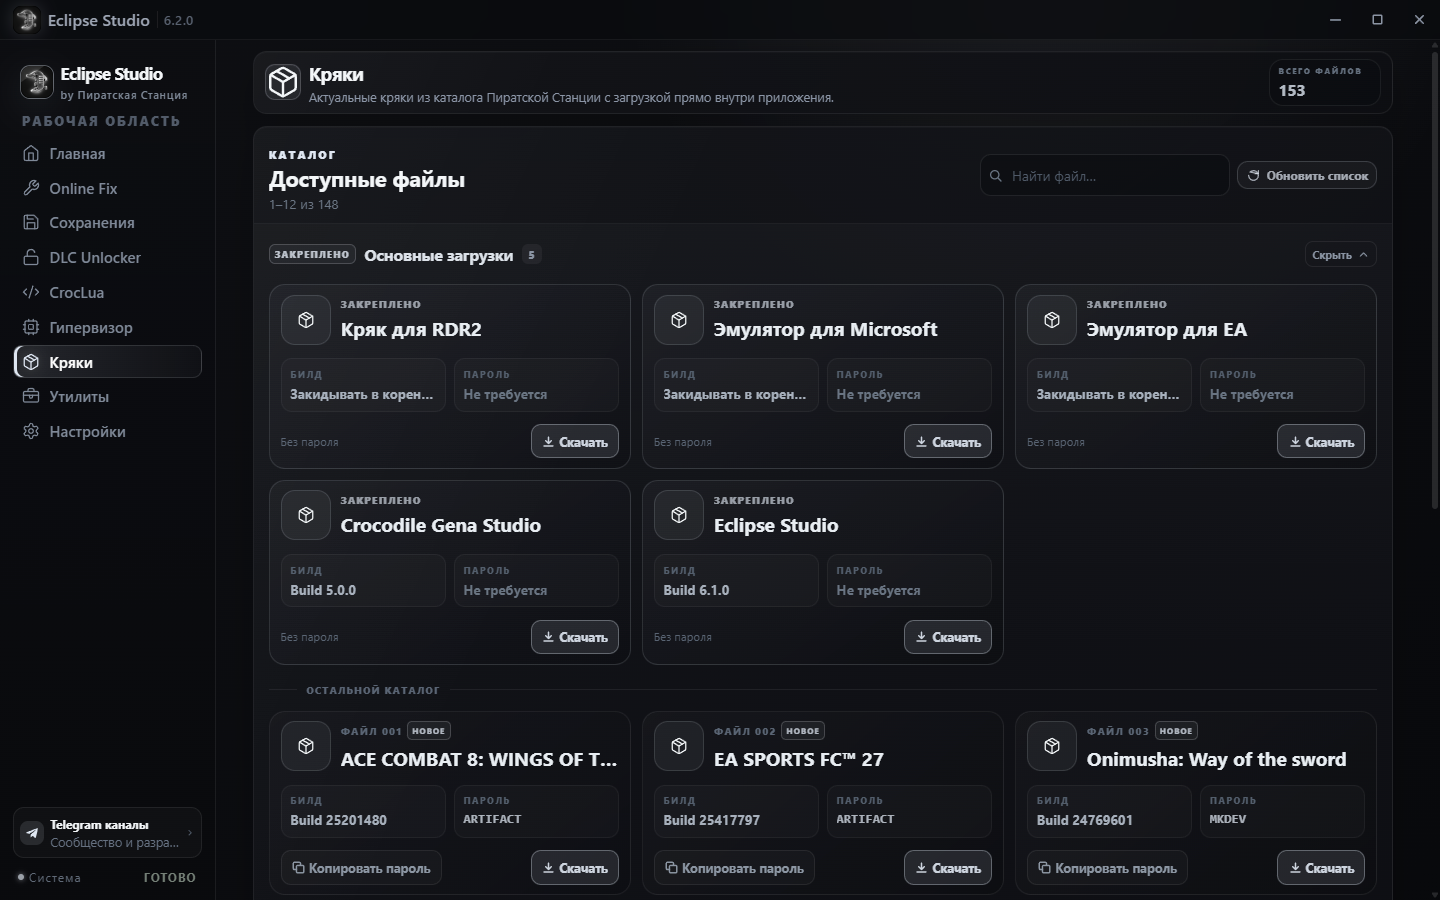
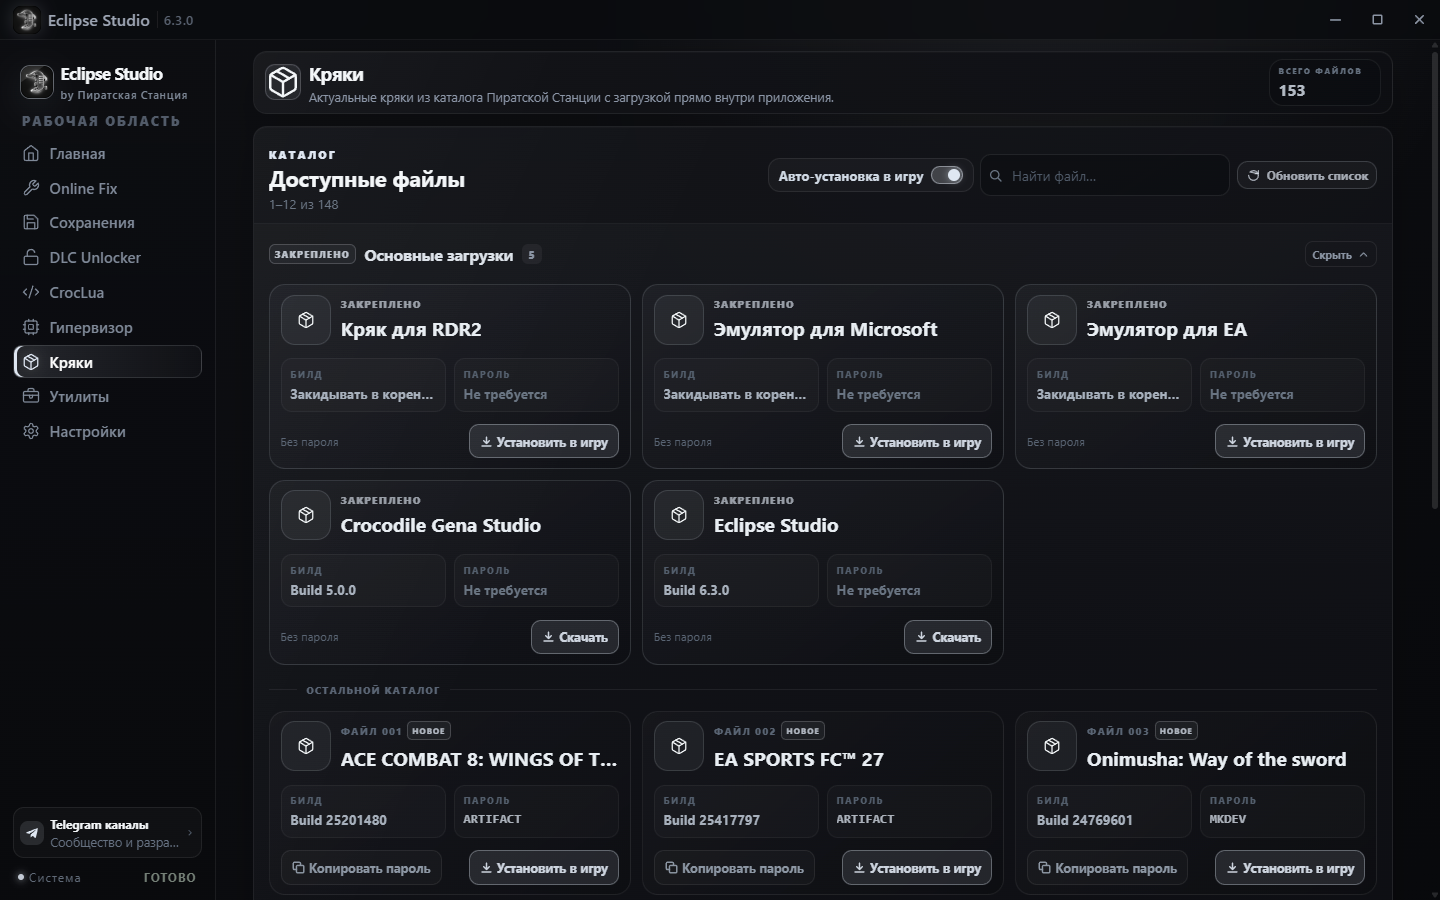
docs: update comparison section with detailed features and bump site to v6.3.0

diff --git a/docs/app.js b/docs/app.js
@@ -396,14 +396,22 @@
       'compare.lead': 'Потяните разделитель, чтобы сравнить оригинальный Crocodile Gena Studio и Eclipse Studio.',
       'compare.orig': 'Оригинал',
       'compare.new': 'Eclipse Studio',
-      'compare.diffOrig1': 'Фиксированные градиенты',
-      'compare.diffOrig2': 'Статичные системные иконки Windows',
-      'compare.diffOrig3': 'Смешанные внешние вызовы путей',
-      'compare.diffOrig4': 'Отсутвие загрузки и части кастомизации',
-      'compare.diffNew1': '9 тем, включая белую',
-      'compare.diffNew2': 'Векторные иконки Lucide',
-      'compare.diffNew3': 'Заставка-мозаика',
-      'compare.diffNew4': 'Нативный проводник Tauri',
+      'compare.diffOrig1': '<strong>Ручная распаковка:</strong> скачивание архива, копирование паролей и ручной перенос файлов в игру',
+      'compare.diffOrig2': '<strong>Внешние зависимости:</strong> батники и бинарники (.bat, .exe) лежали отдельно рядом с программой',
+      'compare.diffOrig3': '<strong>Устаревший WinForms диалог:</strong> мелкое дерево папок в стиле Windows XP без быстрого доступа',
+      'compare.diffOrig4': '<strong>Синие ореолы во всех темах:</strong> фиксированные градиенты, искажающие выбранную цветовую гамму',
+      'compare.diffOrig5': '<strong>Эмодзи и растровые иконки:</strong> статичные системные пиктограммы Windows, размывающиеся на 4K',
+      'compare.diffOrig6': '<strong>Зависание при старте:</strong> пустое белое окно без индикации во время проверки системы',
+      'compare.diffOrig7': '<strong>Навязчивые обновления:</strong> модальные окна без возможности отложить проверку или апдейт',
+      'compare.diffOrig8': '<strong>Фиксированные пути:</strong> жестко заданная папка сохранения без возможности выбора и быстрого сброса',
+      'compare.diffNew1': '<strong>Автоустановка в 1 клик:</strong> умный разбор структуры архивов, бэкап в .backup_orig и автоудаление',
+      'compare.diffNew2': '<strong>Полный Standalone Portable:</strong> всё в одном бинарнике, сканер служб античитов и аудит VBS',
+      'compare.diffNew3': '<strong>Нативный проводник:</strong> современный диалог выбора папок, быстрый доступ и подсветка файлов',
+      'compare.diffNew4': '<strong>9 тем + Светлая палитра:</strong> нейтрализованные ореолы, чистый режим Light и зум текста до 140%',
+      'compare.diffNew5': '<strong>Векторный SVG-сет Lucide:</strong> безупречная чёткость на любых экранах и плавные микроанимации 60 FPS',
+      'compare.diffNew6': '<strong>Аппаратная заставка:</strong> Canvas-анимация с логотипом, пошаговый статус загрузки и пропуск по клику',
+      'compare.diffNew7': '<strong>Гибкий апдейтер:</strong> обновление в 1 клик или откладывание на 10 запусков, комфортный масштаб 120%',
+      'compare.diffNew8': '<strong>Гибкая настройка путей:</strong> выбор любой папки загрузок со сбросом по умолчанию в 1 клик',
       'dl.kicker': 'Загрузка',
       'dl.title1': 'Один файл.',
       'dl.title2': 'Portable.',
@@ -492,14 +500,22 @@
       'compare.lead': 'Drag the slider to compare original Crocodile Gena Studio and Eclipse Studio.',
       'compare.orig': 'Original',
       'compare.new': 'Eclipse Studio',
-      'compare.diffOrig1': 'Fixed static gradients',
-      'compare.diffOrig2': 'Legacy Windows system icons',
-      'compare.diffOrig3': 'Mixed external path dependencies',
-      'compare.diffOrig4': 'No download vault & limited styling',
-      'compare.diffNew1': '9 themes, including clean light mode',
-      'compare.diffNew2': 'Crisp Lucide vector icons',
-      'compare.diffNew3': 'Mosaic intro animation',
-      'compare.diffNew4': 'Native Tauri file dialogs',
+      'compare.diffOrig1': '<strong>Manual extraction:</strong> manual archive download, copying passwords, and manual file copy to game folders',
+      'compare.diffOrig2': '<strong>External dependencies:</strong> loose batch scripts and binaries (.bat, .exe) alongside the app',
+      'compare.diffOrig3': '<strong>Legacy WinForms dialog:</strong> tiny Windows XP-style folder tree without quick access or path input',
+      'compare.diffOrig4': '<strong>Blue halos across themes:</strong> unremovable blue gradients distorting custom color palettes',
+      'compare.diffOrig5': '<strong>Text emojis & legacy icons:</strong> low-res Windows system icons blurring on HiDPI/4K displays',
+      'compare.diffOrig6': '<strong>Freeze on startup:</strong> blank unresponsive window without progress feedback during system checks',
+      'compare.diffOrig7': '<strong>Intrusive updates:</strong> modal prompts with no snooze option, resetting zoom scaling',
+      'compare.diffOrig8': '<strong>Fixed file paths:</strong> hardcoded download folder without custom folder selection or quick reset',
+      'compare.diffNew1': '<strong>1-Click Auto-Install:</strong> smart archive hierarchy parsing, safety backup in .backup_orig, and auto-cleanup',
+      'compare.diffNew2': '<strong>True Standalone Portable:</strong> 100% self-contained binary, built-in anticheat scanner, and VBS audit',
+      'compare.diffNew3': '<strong>Native Explorer dialogs:</strong> modern folder browser with quick access, history, and explorer reveal',
+      'compare.diffNew4': '<strong>9 themes + clean Light mode:</strong> neutralized color bleeding, true white theme, and font scaling up to 140%',
+      'compare.diffNew5': '<strong>Vector Lucide SVG icons:</strong> razor-sharp rendering on any screen with hardware 60 FPS micro-animations',
+      'compare.diffNew6': '<strong>Hardware Canvas splash:</strong> animated logo intro, subsystem initialization log, and instant click-to-skip',
+      'compare.diffNew7': '<strong>Flexible updater:</strong> 1-click update or 10-launch snooze, comfortable persistent 120% scale',
+      'compare.diffNew8': '<strong>Flexible path management:</strong> select any download directory with 1-click reset to defaults',
       'dl.kicker': 'Download',
       'dl.title1': 'Single file.',
       'dl.title2': 'Portable.',
@@ -820,9 +836,10 @@
       .catch(() => {
         syncState.fail++;
         const fallback = [
-          { tag: 'v6.2.0', rawDate: '2026-10-12T12:00:00Z', rawBytes: 44774195, url: 'https://github.com/Sparki1337/eclipse-studio/releases/latest', fallbackSize: '42.7 МБ' },
-          { tag: 'v6.1.0', rawDate: '2026-10-12T10:00:00Z', rawBytes: 44774195, url: 'https://github.com/Sparki1337/eclipse-studio/releases/tag/6.1.0', fallbackSize: '42.7 МБ' },
-          { tag: 'v6.0.0', rawDate: '2026-10-12T08:00:00Z', rawBytes: 44564480, url: 'https://github.com/Sparki1337/eclipse-studio/releases/tag/6.0.0', fallbackSize: '42.5 МБ' },
+          { tag: 'v6.3.0', rawDate: '2026-10-13T18:00:00Z', rawBytes: 44983910, url: 'https://github.com/Sparki1337/eclipse-studio/releases/latest', fallbackSize: '42.9 МБ' },
+          { tag: 'v6.2.0', rawDate: '2026-10-12T12:00:00Z', rawBytes: 44774195, url: 'https://github.com/Sparki1337/eclipse-studio/releases/tag/v6.2.0', fallbackSize: '42.7 МБ' },
+          { tag: 'v6.1.0', rawDate: '2026-10-12T10:00:00Z', rawBytes: 44774195, url: 'https://github.com/Sparki1337/eclipse-studio/releases/tag/v6.1.0', fallbackSize: '42.7 МБ' },
+          { tag: 'v6.0.0', rawDate: '2026-10-12T08:00:00Z', rawBytes: 44564480, url: 'https://github.com/Sparki1337/eclipse-studio/releases/tag/v6.0.0', fallbackSize: '42.5 МБ' },
         ];
         cachedEclipseReleases = fallback;
         renderReleasesUI('eclipse', fallback);
@@ -1051,7 +1068,7 @@
 
     fetch(GIST_URL, { cache: 'no-store' })
       .then((r) => { if (!r.ok) throw new Error('HTTP ' + r.status); return r.json(); })
-      .catch(() => fetch(`${FALLBACK_URL}?v=6.2.0`, { cache: 'no-store' }).then((r) => r.json()))
+      .catch(() => fetch(`${FALLBACK_URL}?v=6.3.0`, { cache: 'no-store' }).then((r) => r.json()))
       .then((data) => {
         const cracks = Array.isArray(data) ? data : (data?.cracks || []);
         allGames = cracks.filter((c) => c && c.name && c.url);

diff --git a/docs/index.html b/docs/index.html
@@ -13,7 +13,7 @@
   <link rel="preconnect" href="https://fonts.googleapis.com" />
   <link rel="preconnect" href="https://fonts.gstatic.com" crossorigin />
   <link href="https://fonts.googleapis.com/css2?family=Inter:wght@300;400;500;600;700&family=Inter+Tight:wght@400;500;600&family=JetBrains+Mono:wght@400;500&display=swap" rel="stylesheet" />
-  <link rel="stylesheet" href="./style.css?v=6.2.0" />
+  <link rel="stylesheet" href="./style.css?v=6.3.0" />
   <script>document.documentElement.classList.add('js');</script>
 </head>
 <body class="is-loading">
@@ -39,7 +39,7 @@
       <a href="#top" class="brand" aria-label="Eclipse Studio">
         <img src="./assets/app-icon.png" alt="" class="brand-icon" />
         <span class="brand-name">Eclipse Studio</span>
-        <span class="brand-ver" data-version>v6.2.0</span>
+        <span class="brand-ver" data-version>v6.3.0</span>
       </a>
       <nav class="nav" id="nav">
         <a href="#modules" data-i18n="nav.modules">Модули</a>
@@ -78,7 +78,7 @@
           <span class="dot"></span>
           <span data-i18n="hero.tag">Eclipse Studio</span>
           <span class="sep"></span>
-          <span class="mono" data-version>v6.2.0</span>
+          <span class="mono" data-version>v6.3.0</span>
         </div>
 
         <h1 class="hero-title" data-split>
@@ -93,7 +93,7 @@
         <div class="hero-actions reveal" style="--d:5">
           <a href="#download" class="btn btn-light btn-lg">
             <svg viewBox="0 0 24 24" width="18" height="18" fill="none" stroke="currentColor" stroke-width="2" stroke-linecap="round" stroke-linejoin="round"><path d="M12 3v12M7 10l5 5 5-5M5 21h14"/></svg>
-            <span><span data-i18n="hero.download">Скачать</span> <span data-version>v6.2.0</span></span>
+            <span><span data-i18n="hero.download">Скачать</span> <span data-version>v6.3.0</span></span>
           </a>
           <a href="#modules" class="btn btn-line btn-lg">
             <span data-i18n="hero.modules">Смотреть модули</span>
@@ -239,19 +239,27 @@
           <div class="diff-col reveal">
             <span class="mono diff-k" data-i18n="compare.orig">Оригинал</span>
             <ul>
-              <li data-i18n="compare.diffOrig1">Фиксированные градиенты</li>
-              <li data-i18n="compare.diffOrig2">Статичные системные иконки Windows</li>
-              <li data-i18n="compare.diffOrig3">Смешанные внешние вызовы путей</li>
-              <li data-i18n="compare.diffOrig4">Отсутвие загрузки и части кастомизации</li>
+              <li data-i18n="compare.diffOrig1"><strong>Ручная распаковка:</strong> скачивание архива, копирование паролей и ручной перенос файлов в игру</li>
+              <li data-i18n="compare.diffOrig2"><strong>Внешние зависимости:</strong> батники и бинарники (.bat, .exe) лежали отдельно рядом с программой</li>
+              <li data-i18n="compare.diffOrig3"><strong>Устаревший WinForms диалог:</strong> мелкое дерево папок в стиле Windows XP без быстрого доступа</li>
+              <li data-i18n="compare.diffOrig4"><strong>Синие ореолы во всех темах:</strong> фиксированные градиенты, искажающие выбранную цветовую гамму</li>
+              <li data-i18n="compare.diffOrig5"><strong>Эмодзи и растровые иконки:</strong> статичные системные пиктограммы Windows, размывающиеся на 4K</li>
+              <li data-i18n="compare.diffOrig6"><strong>Зависание при старте:</strong> пустое белое окно без индикации во время проверки системы</li>
+              <li data-i18n="compare.diffOrig7"><strong>Навязчивые обновления:</strong> модальные окна без возможности отложить проверку или апдейт</li>
+              <li data-i18n="compare.diffOrig8"><strong>Фиксированные пути:</strong> жестко заданная папка сохранения без возможности выбора и быстрого сброса</li>
             </ul>
           </div>
           <div class="diff-col is-new reveal" style="--d:1">
             <span class="mono diff-k" data-i18n="compare.new">Eclipse Studio</span>
             <ul>
-              <li data-i18n="compare.diffNew1">9 тем, включая белую</li>
-              <li data-i18n="compare.diffNew2">Векторные иконки Lucide</li>
-              <li data-i18n="compare.diffNew3">Заставка-мозаика</li>
-              <li data-i18n="compare.diffNew4">Нативный проводник Tauri</li>
+              <li data-i18n="compare.diffNew1"><strong>Автоустановка в 1 клик:</strong> умный разбор структуры архивов, бэкап в .backup_orig и автоудаление</li>
+              <li data-i18n="compare.diffNew2"><strong>Полный Standalone Portable:</strong> всё в одном бинарнике, сканер служб античитов и аудит VBS</li>
+              <li data-i18n="compare.diffNew3"><strong>Нативный проводник:</strong> современный диалог выбора папок, быстрый доступ и подсветка файлов</li>
+              <li data-i18n="compare.diffNew4"><strong>9 тем + Светлая палитра:</strong> нейтрализованные ореолы, чистый режим Light и зум текста до 140%</li>
+              <li data-i18n="compare.diffNew5"><strong>Векторный SVG-сет Lucide:</strong> безупречная чёткость на любых экранах и плавные микроанимации 60 FPS</li>
+              <li data-i18n="compare.diffNew6"><strong>Аппаратная заставка:</strong> Canvas-анимация с логотипом, пошаговый статус загрузки и пропуск по клику</li>
+              <li data-i18n="compare.diffNew7"><strong>Гибкий апдейтер:</strong> обновление в 1 клик или откладывание на 10 запусков, комфортный масштаб 120%</li>
+              <li data-i18n="compare.diffNew8"><strong>Гибкая настройка путей:</strong> выбор любой папки загрузок со сбросом по умолчанию в 1 клик</li>
             </ul>
           </div>
         </div>
@@ -270,7 +278,7 @@
           <article class="dl-card is-main reveal" data-tilt-soft>
             <div class="dl-top">
               <img src="./assets/app-icon.png" alt="" class="dl-icon" />
-              <span class="badge mono" id="eclipseVersion" data-version>v6.2.0</span>
+              <span class="badge mono" id="eclipseVersion" data-version>v6.3.0</span>
             </div>
             <h3>Eclipse Studio</h3>
             <p class="dl-desc" data-i18n="dl.eclipseDesc">Актуальная ветка: форк с самыми быстрыми обновлениями и улучшениями.</p>
@@ -458,7 +466,7 @@
         <div class="footer-brand">
           <img src="./assets/app-icon.png" alt="" />
           <div>
-            <strong>Eclipse Studio <span data-version>v6.2.0</span></strong>
+            <strong>Eclipse Studio <span data-version>v6.3.0</span></strong>
             <span data-i18n="footer.sub">Форк Crocodile Gena Studio · автор оригинала LeoBanned\Крокодил Гена.</span>
           </div>
         </div>
@@ -491,6 +499,6 @@
 
   <div class="toast mono" id="toast">Ссылка скопирована</div>
 
-  <script src="./app.js?v=6.2.0"></script>
+  <script src="./app.js?v=6.3.0"></script>
 </body>
 </html>

diff --git a/docs/style.css b/docs/style.css
@@ -386,14 +386,16 @@ button { font: inherit; color: inherit; background: none; border: 0; cursor: poi
 .compare-box:hover .compare-knob, .compare-box.drag .compare-knob { transform: scale(1.1); }
 .diff { display: grid; grid-template-columns: 1fr 1fr; gap: 1px; margin-top: 24px; background: var(--line); border: 1px solid var(--line); border-radius: var(--r); overflow: hidden; }
 .diff-col { padding: 32px; background: var(--bg-1); }
-.diff-k { color: var(--mut-2); font-size: 11px; }
-.diff ul { list-style: none; margin: 20px 0 0; padding: 0; display: grid; gap: 12px; }
-.diff li { position: relative; padding-left: 22px; color: var(--mut); font-size: 15px; }
-.diff li::before { content: ""; position: absolute; left: 0; top: 11px; width: 10px; height: 1px; background: var(--mut-2); }
+.diff-k { color: var(--mut-2); font-size: 11px; text-transform: uppercase; letter-spacing: .08em; }
+.diff ul { list-style: none; margin: 20px 0 0; padding: 0; display: grid; gap: 14px; }
+.diff li { position: relative; padding-left: 20px; color: var(--mut); font-size: 14px; line-height: 1.55; }
+.diff li strong { color: rgba(255, 255, 255, 0.75); font-weight: 600; }
+.diff li::before { content: ""; position: absolute; left: 0; top: 10px; width: 8px; height: 1px; background: var(--mut-2); }
 .diff-col.is-new { background: #0f0f0f; }
 .diff-col.is-new .diff-k { color: var(--fg); }
-.diff-col.is-new li { color: var(--fg); }
-.diff-col.is-new li::before { background: var(--fg); width: 6px; height: 6px; top: 8px; left: 2px; border-radius: 50%; }
+.diff-col.is-new li { color: rgba(255, 255, 255, 0.85); }
+.diff-col.is-new li strong { color: var(--fg); font-weight: 600; }
+.diff-col.is-new li::before { background: var(--fg); width: 6px; height: 6px; top: 7px; left: 2px; border-radius: 50%; }
 
 /* ---------- Загрузка ---------- */
 .dl-grid { display: grid; grid-template-columns: 1.25fr 1fr; gap: 16px; }
